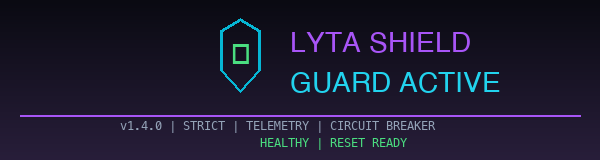
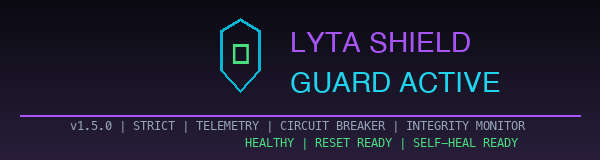
feat: self-healing integrity monitor — doctor, restore-baseline, self-heal, 10-min cron

Changed region(s): [[0.12, 0.75, 0.87, 0.8125], [0.39, 0.8438, 0.87, 0.9375]]

diff --git a/self-audit-log.md b/self-audit-log.md
@@ -49,6 +49,19 @@ Public log of daily self-audits over the latest Hermes session.
 - **Notes:** Circuit breaker marker is `var/circuit-breaker-open`. Reset rotates the event log.
 - **Commit:** pending
 
+## 2026-07-28 (integrity monitor test)
+
+- **Method:** ran `lyta-shield restore-baseline`, then `lyta-shield doctor`, then appended a comment to `integrations/hermes-wrapper.sh`, then `doctor` again, then `lyta-shield self-heal`, then `doctor` again
+- **Result:**
+  - Baseline stored SHA-256 hashes for guard, wrapper, and CLI
+  - Initial doctor reported HEALTHY
+  - After tamper, doctor reported `[TAMPERED] integrations/hermes-wrapper.sh` and `[FAIL] integrity check failed`
+  - `self-heal` re-downloaded the wrapper from `https://raw.githubusercontent.com/Kubo-cmd/lyta-shield/main/integrations/hermes-wrapper.sh` and restored it
+  - Final doctor reported HEALTHY and integrity verified
+- **Verdict:** self-healing integrity pattern works
+- **Notes:** Cron `lyta-shield-doctor-heal` runs every 10 minutes to auto-detect and auto-repair tampering
+- **Commit:** pending
+
 ## How to reproduce
 
 ```bash
